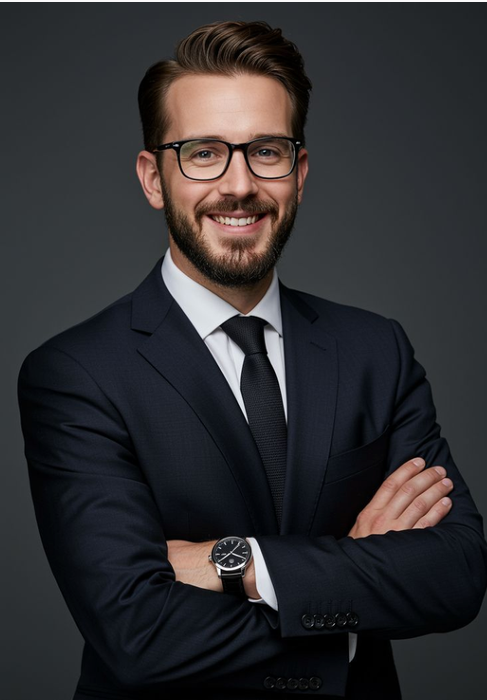
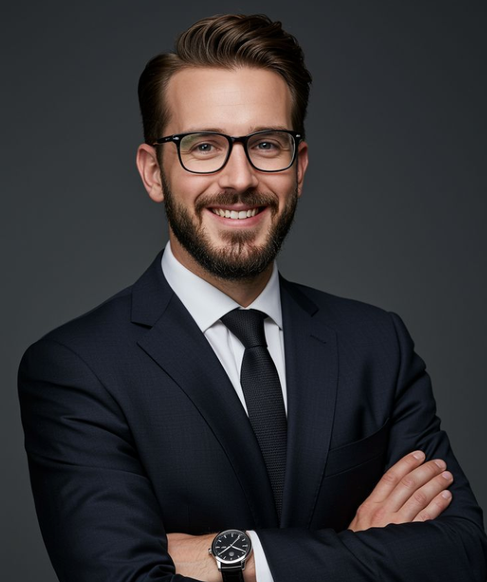
update about us page

diff --git a/resources/views/frontend/about/managing_director.blade.php b/resources/views/frontend/about/managing_director.blade.php
@@ -1,0 +1,27 @@
+<div class="section">
+    <div class="r-container">
+        <div class="row row-cols-xl-2 row-cols-1 align-items-center g-5">
+            <div class="col scrollanimation animated fadeInLeft">
+                <img src="{{ asset('assets/image/about/653467467.png') }}"
+                     class="img-fluid rounded-4 w-100"
+                     alt="Managing Director - C & K Home Nursing and Care Center"
+                     style="max-height: 480px; object-fit: cover;">
+            </div>
+            <div class="col scrollanimation animated fadeInRight">
+                <div class="d-flex flex-column gap-3" style="max-width: 560px;">
+                    <div class="d-flex flex-row gap-2 align-items-center">
+                        <h6 class="accent-color m-0">Leadership</h6>
+                    </div>
+                    <h3>Managing Director</h3>
+                    <p>
+                        The Managing Director is a qualified and experienced healthcare professional who successfully
+                        completed nursing training at Selinko Health Care Center. With approximately 5 years of
+                        professional experience in healthcare service delivery at Selinko Health Care Center, the
+                        Managing Director brings substantial expertise and commitment to patient care and
+                        organizational excellence.
+                    </p>
+                </div>
+            </div>
+        </div>
+    </div>
+</div>

diff --git a/resources/views/frontend/about/index.blade.php b/resources/views/frontend/about/index.blade.php
@@ -17,6 +17,7 @@
 @section('content')
     @include('frontend.about.hero')
     @include('frontend.about.about')
+    @include('frontend.about.managing_director')
     @include('frontend.about.why_choose_us')
     @include('frontend.about.services')
     @include('frontend.about.package')
